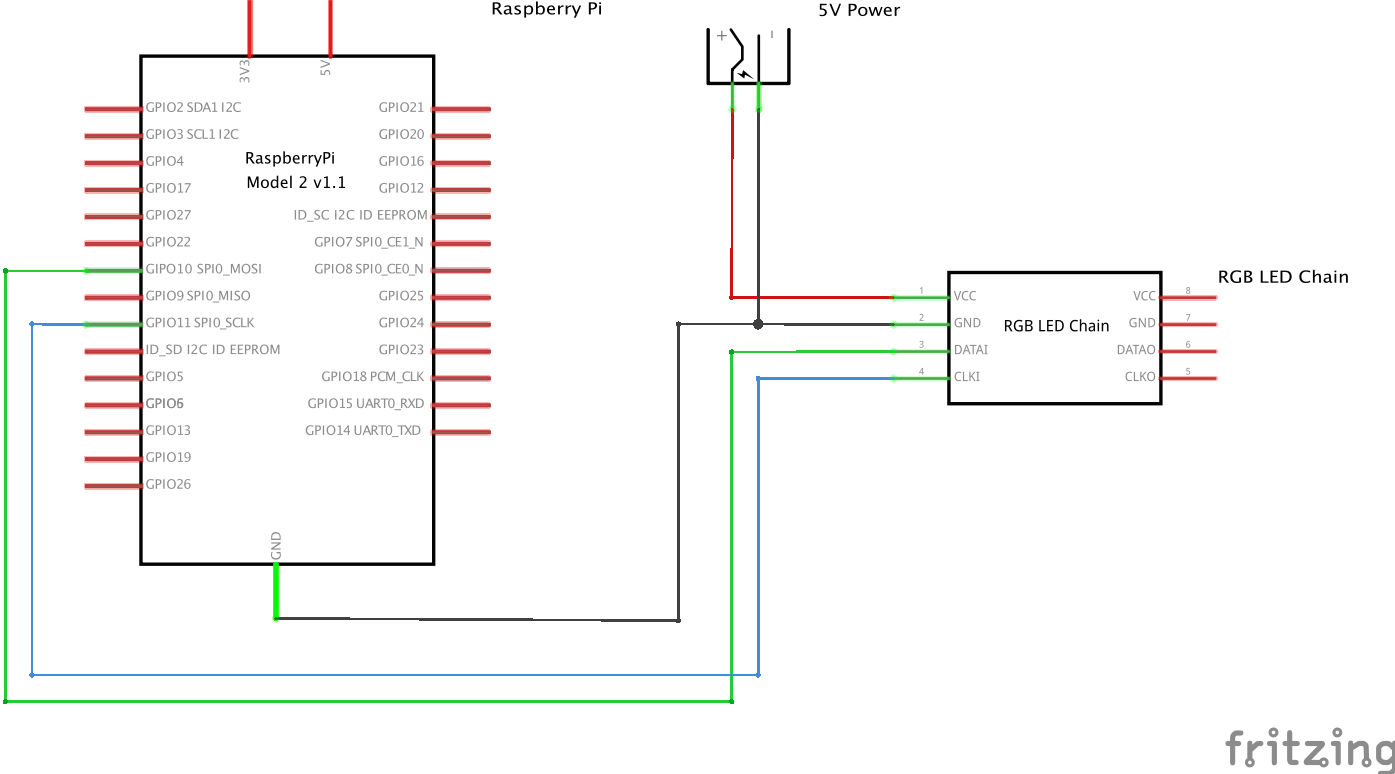
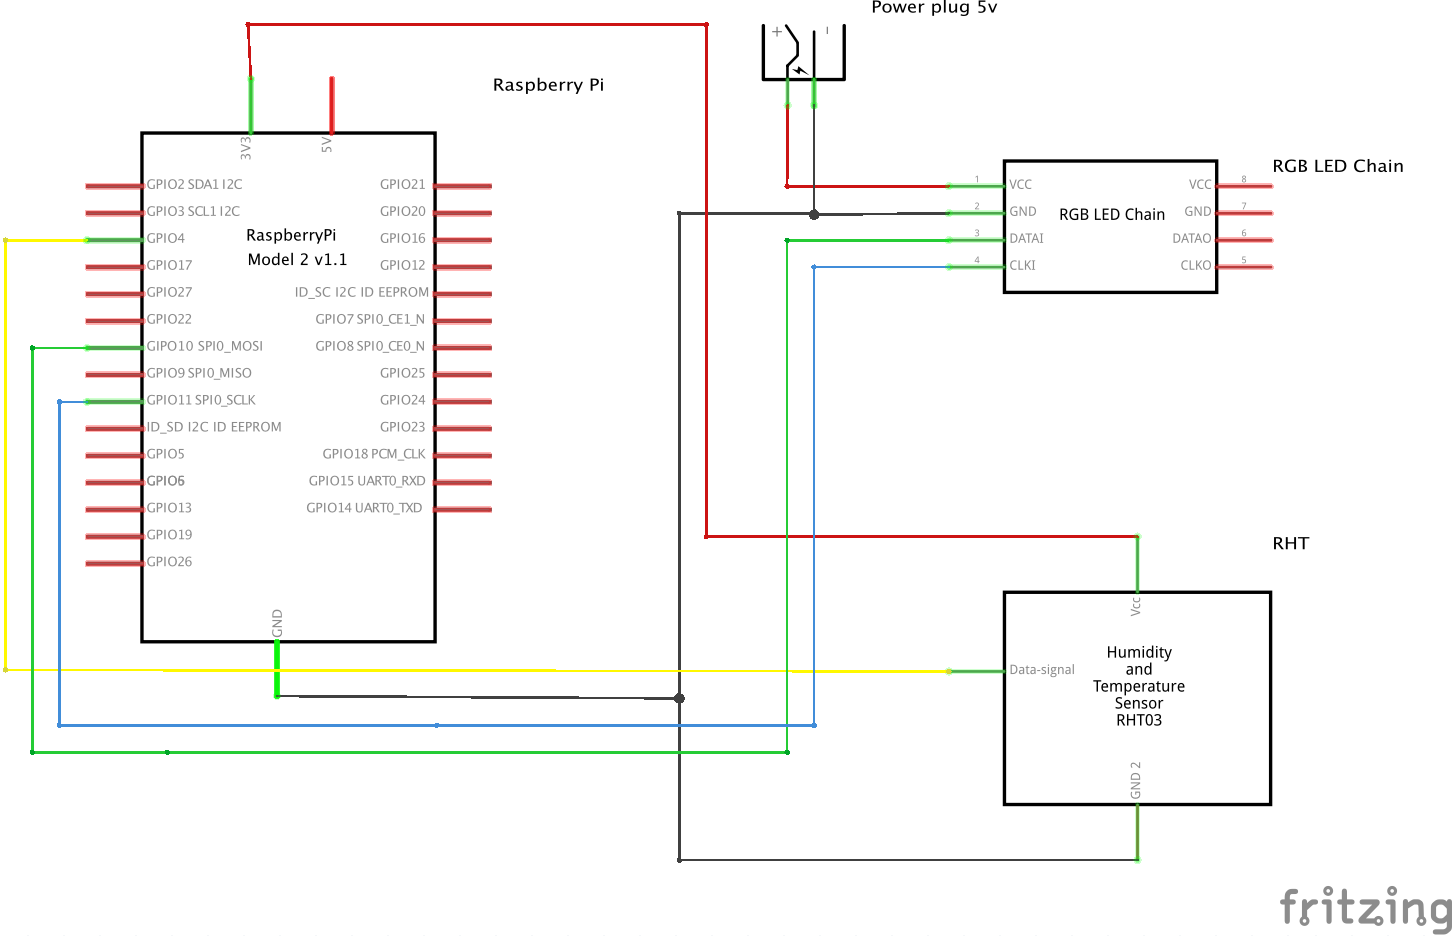
cloud_making

diff --git a/Manual/Cloud/cloud_making.md b/Manual/Cloud/cloud_making.md
@@ -2,14 +2,15 @@
 
 ##부품목록
 
-|  NO  |  부품명  |  수량  |
-| :------: | ------ | --------:|
-|  1  |  Raspberry Pi  |  1  |
-|  2  |  RGB LED Chain (20개 모듈 일체형)  |  2  |
-|  3  |  스피커  |  1  |
-|  4  |  점퍼 케이블 1P  |  3  |
-|  5  |  케이블타이  |  40  |
-|  6  |  DC 5v 아답터  |  1  |
+|  NO  |  부품명  |  수량  | 상세 |
+| :------: | ------ | --------:| :------ |
+|  1  |  Raspberry Pi  |  1  |  Raspberry Pi 2  |
+|  2  |  RGB LED Chain (20개 모듈 일체형)  |  2  |  12MM DIFFUSED FLAT DIGITAL RGB LED PIXELS  |
+|  3  |  온습도 센서  |  1  |  RHT01  |
+|  4  |  스피커  |  1  |  QS-130U  |
+|  5  |  점퍼 케이블  |  3  |  테스트 소켓 점퍼 케이블 1P  | 
+|  6  |  케이블타이  |  40  |  케이블타이  |
+|  7  |  DC 5V 아답터  |  1  |  DC 5V 아답터  |
 
 ##제작과정
 
@@ -21,11 +22,11 @@
 
 ![img](https://github.com/sw-maestro-ichai/alarm/blob/master/Manual/Pictures/2.jpeg)
 
-#####3. 라즈베리파이와 스피커를 넣을 상자를 구름 틀 안에 넣고 고정시킵니다.
+#####3. 라즈베리파이 넣을 상자를 구름 틀 안에 넣고 고정시킵니다.
 
 ![img](https://github.com/sw-maestro-ichai/alarm/blob/master/Manual/Pictures/3.jpeg)
 
-#####4. 케이블타이를 이용하여 LED Chain을 구름 틀에 고정시킵니다.
+#####4. LED Chain을 케이블타이를 이용하여 구름 틀에 고정시킵니다.
 
 ![img](https://github.com/sw-maestro-ichai/alarm/blob/master/Manual/Pictures/4.jpeg)
 
@@ -34,6 +35,7 @@
 ![img](https://github.com/sw-maestro-ichai/alarm/blob/master/Manual/Pictures/5.jpeg)
 
 #####6. 완성
+![img](https://github.com/sw-maestro-ichai/alarm/blob/master/Manual/Pictures/6_cloud.jpeg)
 
 
 ##하드웨어
